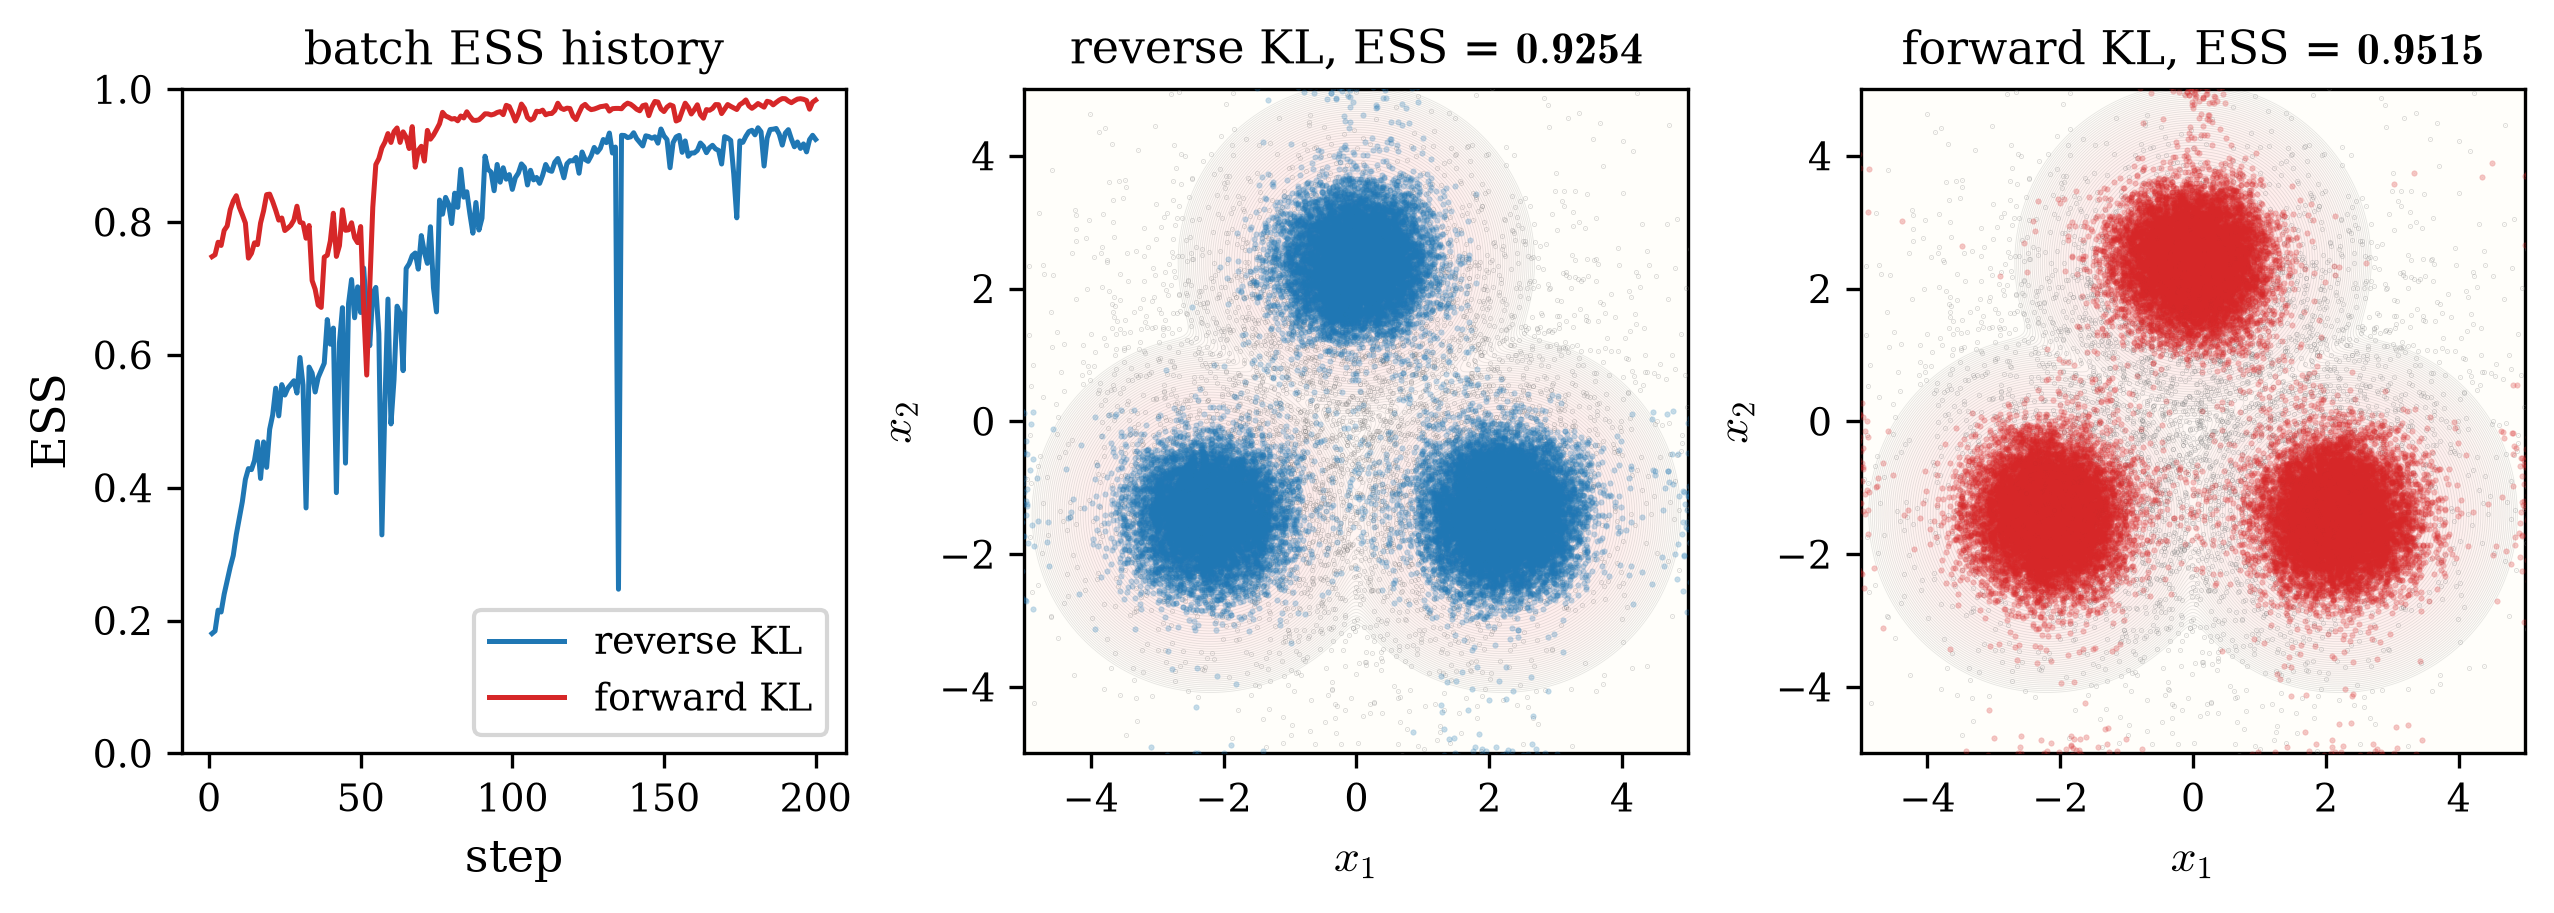
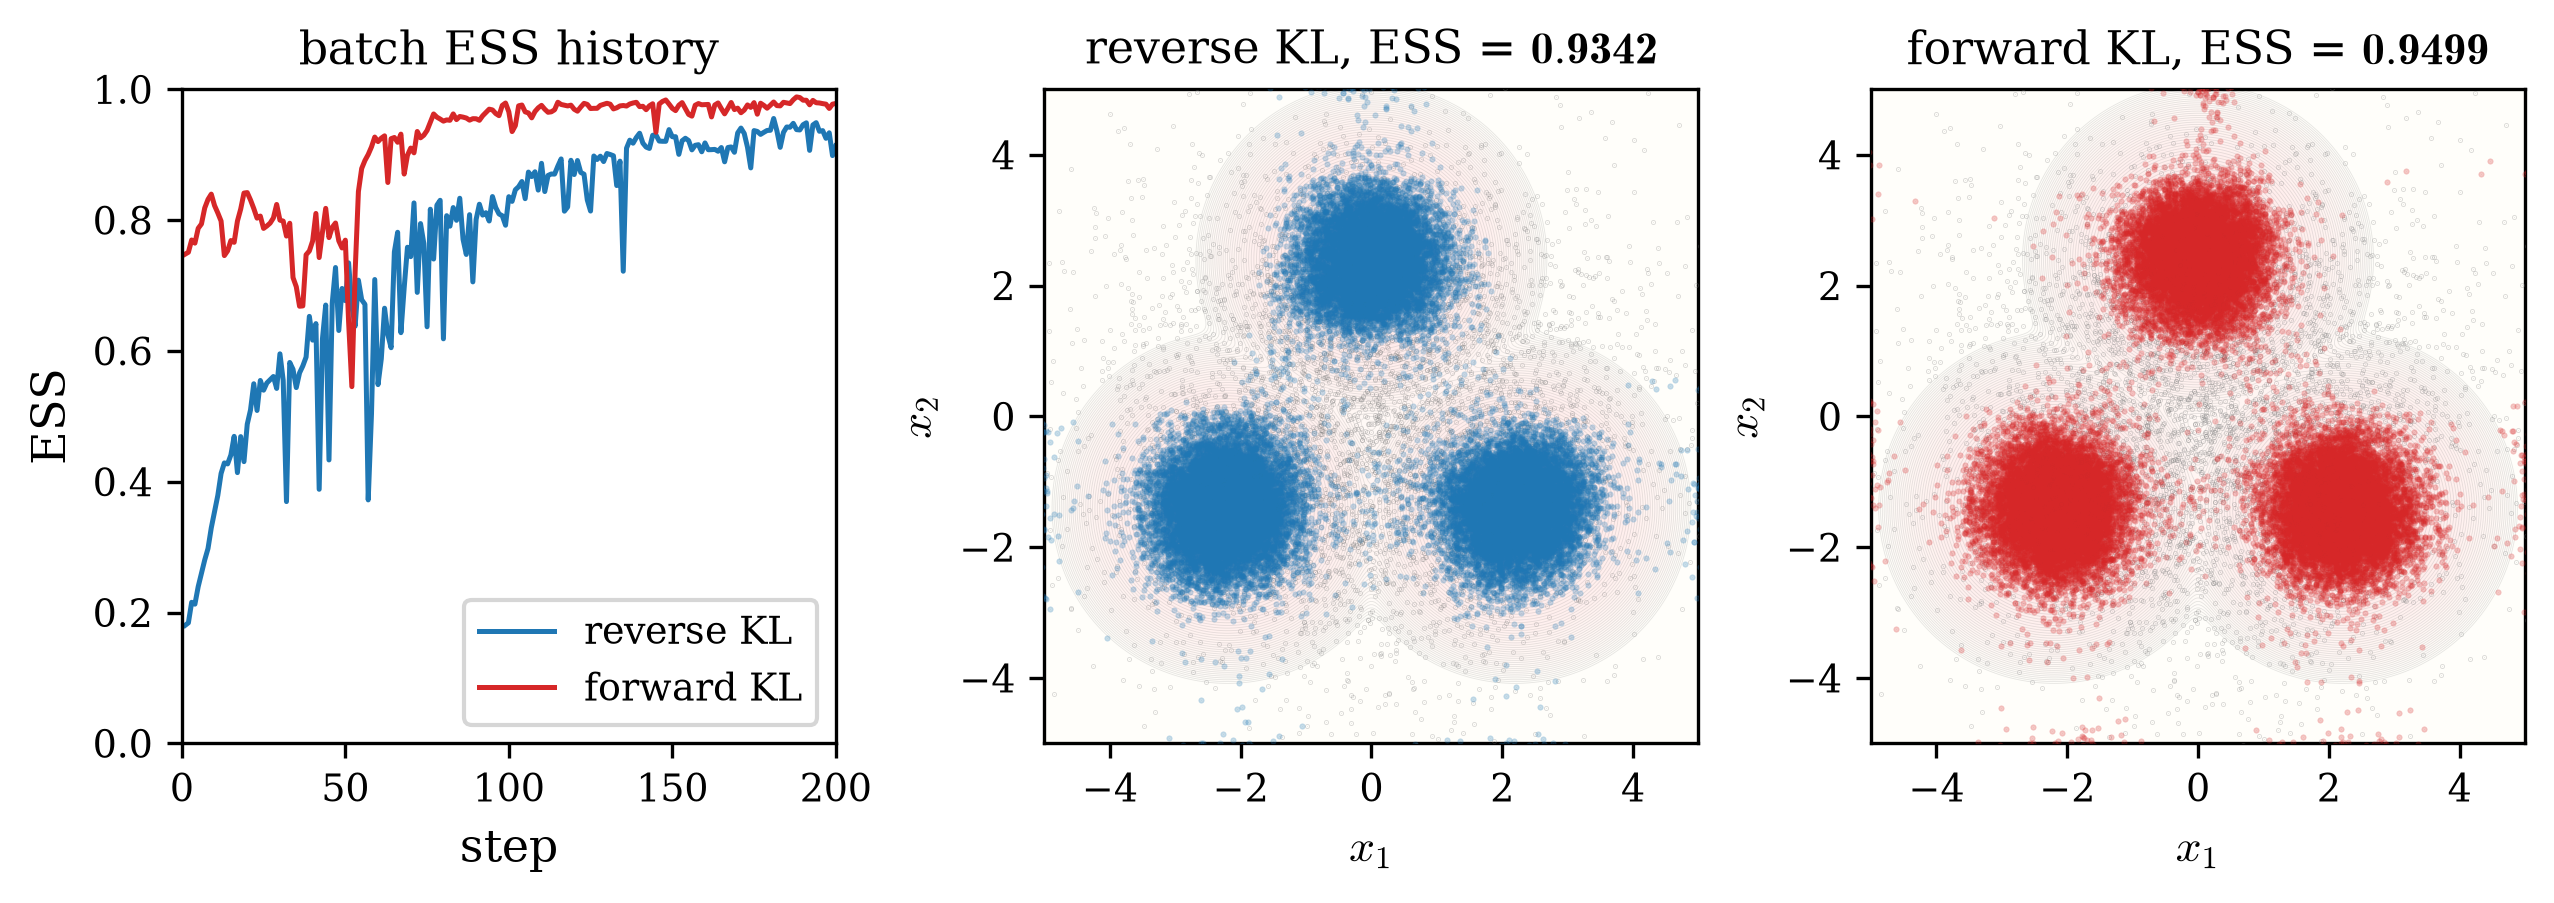
Live Monitor for the packed trainers; exact ESS-history x-axis
- Monitor(every, prefix, printer) in train.py: reports step, mean loss,
  and batch ESS from inside the compiled lax.scan (lax.cond-gated
  jax.debug.callback — zero cost on non-reporting steps); both train_*
  drivers accept an optional monitor argument
- 2D_single: MONITOR_EVERY=10 routed through the timestamped log();
  ESS-history panel x-axis pinned to exactly [0, STEPS]

diff --git a/jflows/train.py b/jflows/train.py
@@ -18,6 +18,8 @@ Public API:
                        source batch at the source potential
     train_forward_KL — forward KL; each step manufactures its target
                        batch by AIS through the CURRENT flow
+    Monitor          — live training-status reporter (loss + batch ESS
+                       every `every` steps, from inside the compiled loop)
 """
 
 from __future__ import annotations
@@ -35,9 +37,46 @@ from .utils.metrics import compute_ESS_log
 from .utils.rejuvenation import langevin
 
 
-__all__ = ["train_forward_KL", "train_reverse_KL"]
+__all__ = ["Monitor", "train_forward_KL", "train_reverse_KL"]
 
 _BETA1, _BETA2, _EPS = 0.9, 0.999, 1e-8
+
+
+class Monitor:
+    """
+    Live training-status monitor for the packed train_* drivers.
+
+    Reports the Adam step, the mean loss, and the batch ESS every
+    `every` steps through `printer`. The drivers invoke it inside the
+    compiled `lax.scan` via `jax.debug.callback`, so the status appears
+    WHILE the packed call is running (the non-reporting steps skip the
+    callback entirely via `lax.cond`).
+
+    Input:
+        every:   int        report every `every` Adam steps (e.g. 10)
+        prefix:  str        line prefix, e.g. '[reverse KL] ' (default '')
+        printer: callable   line consumer (default print; pass a log
+                            function to also write a status file)
+    """
+
+    def __init__(self, every: int, prefix: str = "", printer=print):
+        if every < 1:
+            raise ValueError(f"Monitor: every must be a positive int, got {every!r}")
+        self.every = int(every)
+        self.prefix = prefix
+        self.printer = printer
+
+    def _emit(self, t, loss, ess) -> None:
+        self.printer(f"{self.prefix}step {int(t):>5d}   "
+                     f"loss = {float(loss):+.4e}   ESS = {float(ess):.4f}")
+
+    def report(self, t: Array, loss: Array, ess: Array) -> None:
+        """Called by the drivers inside the scan body (traced values)."""
+        lax.cond(
+            t % self.every == 0,
+            lambda: jax.debug.callback(self._emit, t, loss, ess),
+            lambda: None,
+        )
 
 
 def train_reverse_KL(
@@ -51,6 +90,7 @@ def train_reverse_KL(
     lr: float,
     mc_step: float,
     mc_iters: int,
+    monitor: Monitor | None = None,
 ) -> tuple[Flow, Array]:
     """
     Single-stage reverse KL training of a flow on a fixed source set:
@@ -83,6 +123,8 @@ def train_reverse_KL(
         lr:       float          Adam learning rate
         mc_step:  float          Langevin rejuvenation step size
         mc_iters: int            Langevin rejuvenation steps per batch
+        monitor:  Monitor        optional live status reporter (step, loss,
+                                 batch ESS every `monitor.every` steps)
     Output:
         flow: Flow          the trained flow
         ess:  Array [steps] per-step batch ESS (before that step's update)
@@ -106,8 +148,10 @@ def train_reverse_KL(
             losses = reverse_KL(x, target, eqx.combine(p, static), type)
             return losses.mean(), losses
 
-        (_, losses), grads = jax.value_and_grad(loss_fn, has_aux=True)(params)
+        (loss, losses), grads = jax.value_and_grad(loss_fn, has_aux=True)(params)
         ess = compute_ESS_log(source(x) - losses)  # log w = -target(y) + source(x) + ladj
+        if monitor is not None:
+            monitor.report(t, loss, ess)
         t_f = t.astype(x_valid.dtype)  # bias-correction exponent
         m = jax.tree.map(lambda m_, g: _BETA1 * m_ + (1 - _BETA1) * g, m, grads)
         v = jax.tree.map(lambda v_, g: _BETA2 * v_ + (1 - _BETA2) * g * g, v, grads)
@@ -135,6 +179,7 @@ def train_forward_KL(
     ladder: int,
     mc_step: float,
     mc_iters: int,
+    monitor: Monitor | None = None,
 ) -> tuple[Flow, Array]:
     """
     Single-stage forward KL training of a flow on a fixed source set:
@@ -169,6 +214,8 @@ def train_forward_KL(
         ladder:   int            AIS rungs per manufactured batch
         mc_step:  float          Langevin rejuvenation step size
         mc_iters: int            Langevin rejuvenation steps per rung
+        monitor:  Monitor        optional live status reporter (step, loss,
+                                 batch ESS every `monitor.every` steps)
     Output:
         flow: Flow          the trained flow
         ess:  Array [steps] per-step batch ESS (before that step's update)
@@ -195,8 +242,10 @@ def train_forward_KL(
             losses = forward_KL(y, source, eqx.combine(p, static), type)
             return losses.mean(), losses
 
-        (_, losses), grads = jax.value_and_grad(loss_fn, has_aux=True)(params)
+        (loss, losses), grads = jax.value_and_grad(loss_fn, has_aux=True)(params)
         ess = compute_ESS_log(-target(y) + losses)  # log w = -target(y) + source(x) + ladj
+        if monitor is not None:
+            monitor.report(t, loss, ess)
         t_f = t.astype(x_valid.dtype)  # bias-correction exponent
         m = jax.tree.map(lambda m_, g: _BETA1 * m_ + (1 - _BETA1) * g, m, grads)
         v = jax.tree.map(lambda v_, g: _BETA2 * v_ + (1 - _BETA2) * g * g, v, grads)

diff --git a/example/2D_single.py b/example/2D_single.py
@@ -48,7 +48,7 @@ plt.rcParams.update({
 
 from jflows.flow import NSF
 from jflows.potential import Nlog_Gaussian, Nlog_Gaussian_Mixture
-from jflows.train import train_forward_KL, train_reverse_KL
+from jflows.train import Monitor, train_forward_KL, train_reverse_KL
 from jflows.utils import compute_ESS, importance_weights
 
 HERE = Path(__file__).resolve().parent
@@ -69,6 +69,7 @@ N_VALID: int = 40000   # the fixed source set (training pool + final ESS evaluat
 N_BATCH: int = 2000    # batch drawn from the fixed set per Adam step
 STEPS: int = 200       # Adam steps (one compiled call per method)
 LR: float = 1e-3       # Adam learning rate
+MONITOR_EVERY: int = 10  # print loss + batch ESS every MONITOR_EVERY steps
 
 # Langevin rejuvenation (reverse KL batches + the single-rung AIS)
 LADDER: int = 1        # one reweight + resample + rejuvenation hop
@@ -110,14 +111,16 @@ def main() -> None:
     log("[reverse KL] training (packed single stage) ...")
     flow_F, hist_F = train_reverse_KL(x_valid, u0, u1, new_flow(jax.random.key(0)),
                                       type="F", n_batch=N_BATCH, steps=STEPS, lr=LR,
-                                      mc_step=MC_STEP, mc_iters=MC_ITERS)
+                                      mc_step=MC_STEP, mc_iters=MC_ITERS,
+                                      monitor=Monitor(MONITOR_EVERY, "[reverse KL] ", log))
     log(f"[reverse KL] {STEPS} steps done   batch ESS "
         f"{float(hist_F[0]):.3f} -> {float(hist_F[STEPS // 2]):.3f} -> {float(hist_F[-1]):.3f}")
 
     log("[forward KL] training (packed single stage) ...")
     flow_G, hist_G = train_forward_KL(x_valid, u0, u1, new_flow(jax.random.key(1)),
                                       type="G", n_batch=N_BATCH, steps=STEPS, lr=LR,
-                                      ladder=LADDER, mc_step=MC_STEP, mc_iters=MC_ITERS)
+                                      ladder=LADDER, mc_step=MC_STEP, mc_iters=MC_ITERS,
+                                      monitor=Monitor(MONITOR_EVERY, "[forward KL] ", log))
     log(f"[forward KL] {STEPS} steps done   batch ESS "
         f"{float(hist_G[0]):.3f} -> {float(hist_G[STEPS // 2]):.3f} -> {float(hist_G[-1]):.3f}")
 
@@ -146,6 +149,7 @@ def main() -> None:
     axes[0].plot(steps_axis, np.asarray(hist_G), color="#D62728", lw=1.2, label="forward KL")
     axes[0].set_xlabel("step")
     axes[0].set_ylabel("ESS")
+    axes[0].set_xlim(0, STEPS)
     axes[0].set_ylim(0.0, 1.0)
     axes[0].set_title("batch ESS history")
     axes[0].legend(loc="lower right")
